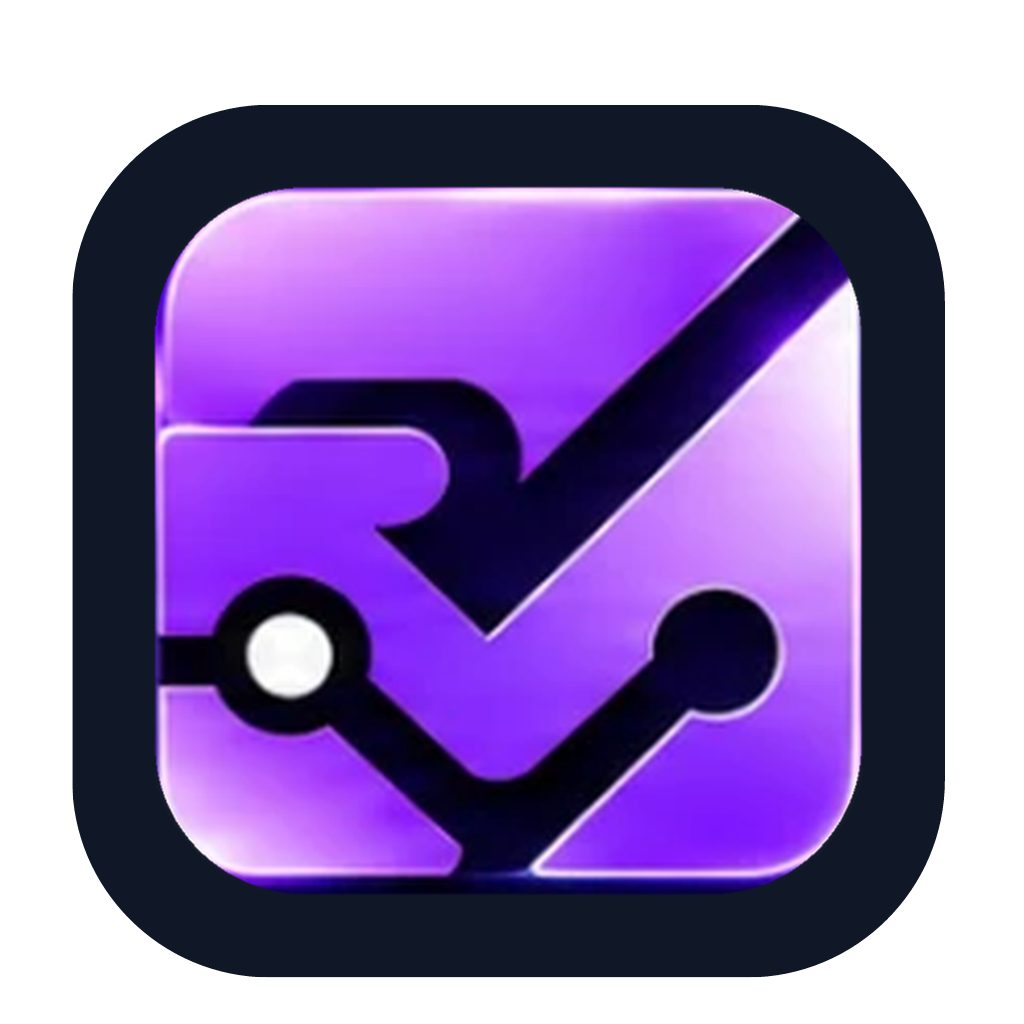
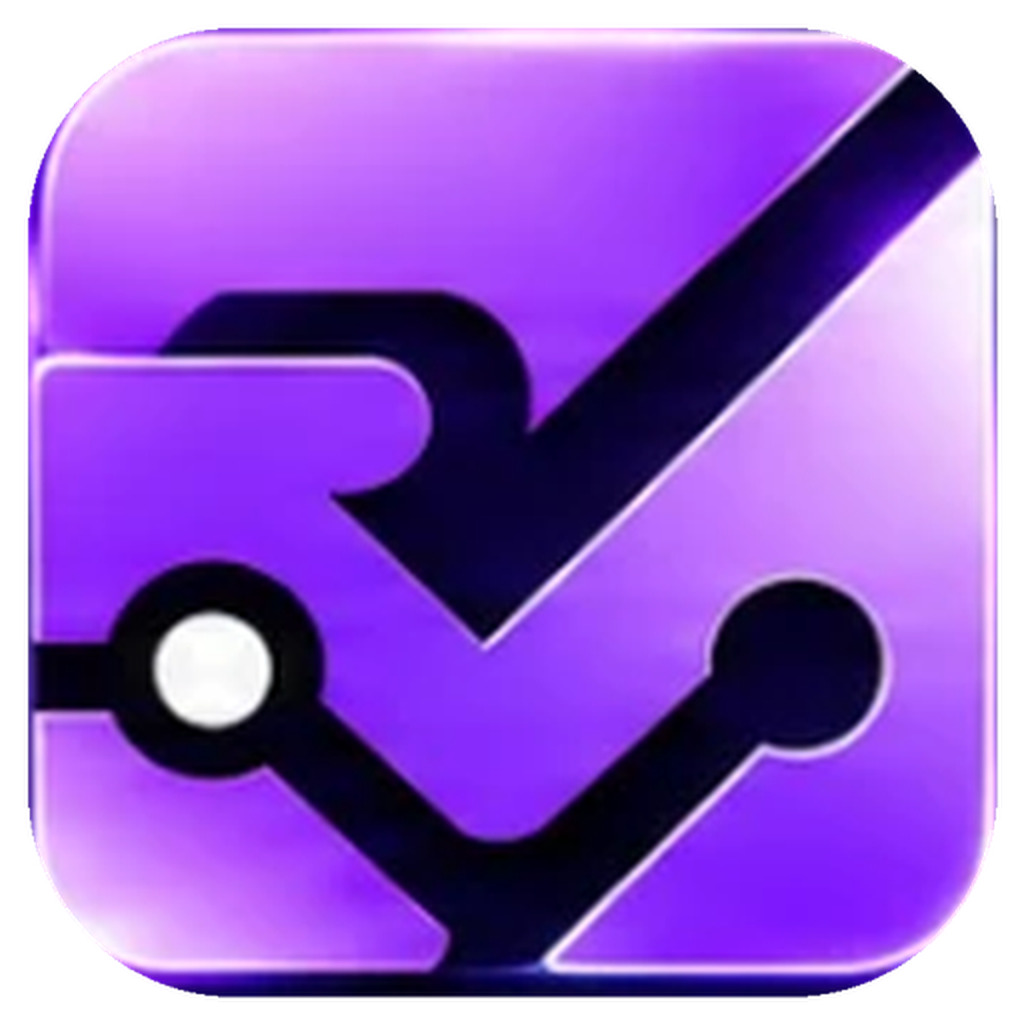
fix(branding): align shared desktop window and launcher artwork

diff --git a/scripts/generate_icons.py b/scripts/generate_icons.py
@@ -35,7 +35,7 @@ Canary uses yellow/dark-yellow backgrounds. Commit builds use red/dark-red
 and a seven-character SHA badge. The girl and tile geometry do not change.
 Only apps/desktop outputs use this identity. Website, bootstrap, dashboard,
 and the shared master SVGs retain the default brand.
-Actelyo's Windows product PNG/ICO always retain the canonical violet artwork;
+Actelyo's Windows product PNG/ICO and shared desktop mark retain the canonical violet artwork;
 their build identity is carried by executable/version metadata. Other desktop
 surfaces continue to use the channel backgrounds and commit badge.
 
@@ -274,6 +274,7 @@ TARGETS: list[tuple[str, str, object]] = [
     ("apps/desktop/assets/icon.icon/Assets/mono.png", "icon_mono", None),
     *APPX_TARGETS,
     ("apps/desktop/public/apple-touch-icon.png", "png", 1024),
+    ("apps/desktop/public/actelyo-logo.png", "png", 512),
     # The dev-run Dock icon (app.dock.setIcon): same mac grid as the icns.
     ("apps/desktop/assets/icon-mac.png", "png_mac", 1024),
     ("apps/desktop/public/nous-girl.png", "girl_light", 256),

diff --git a/scripts/windows_product_icons.py b/scripts/windows_product_icons.py
@@ -1,4 +1,4 @@
-"""Canonical Actelyo Windows artwork, independent of development build flavors."""
+"""Canonical Actelyo product artwork on Windows and shared desktop surfaces."""
 import io
 from pathlib import Path
 
@@ -6,6 +6,7 @@ from PIL import Image
 
 WINDOWS_PRODUCT_ICONS = frozenset({
     "apps/desktop/assets/icon.png", "apps/desktop/assets/icon.ico",
+    "apps/desktop/public/apple-touch-icon.png", "apps/desktop/public/actelyo-logo.png",
 })
 
 
@@ -15,7 +16,8 @@ def windows_product_icon(source: Path, relative: str) -> bytes | None:
     if relative.endswith(".ico"):
         return (source / "assets/actelyo-law-windows.ico").read_bytes()
     with Image.open(source / "assets/actelyo-law-windows.png") as image:
-        canvas = image.convert("RGBA").resize((1024, 1024), Image.Resampling.LANCZOS)
+        size = 512 if relative.endswith("/actelyo-logo.png") else 1024
+        canvas = image.convert("RGBA").resize((size, size), Image.Resampling.LANCZOS)
         output = io.BytesIO()
         canvas.save(output, "PNG")
         return output.getvalue()
